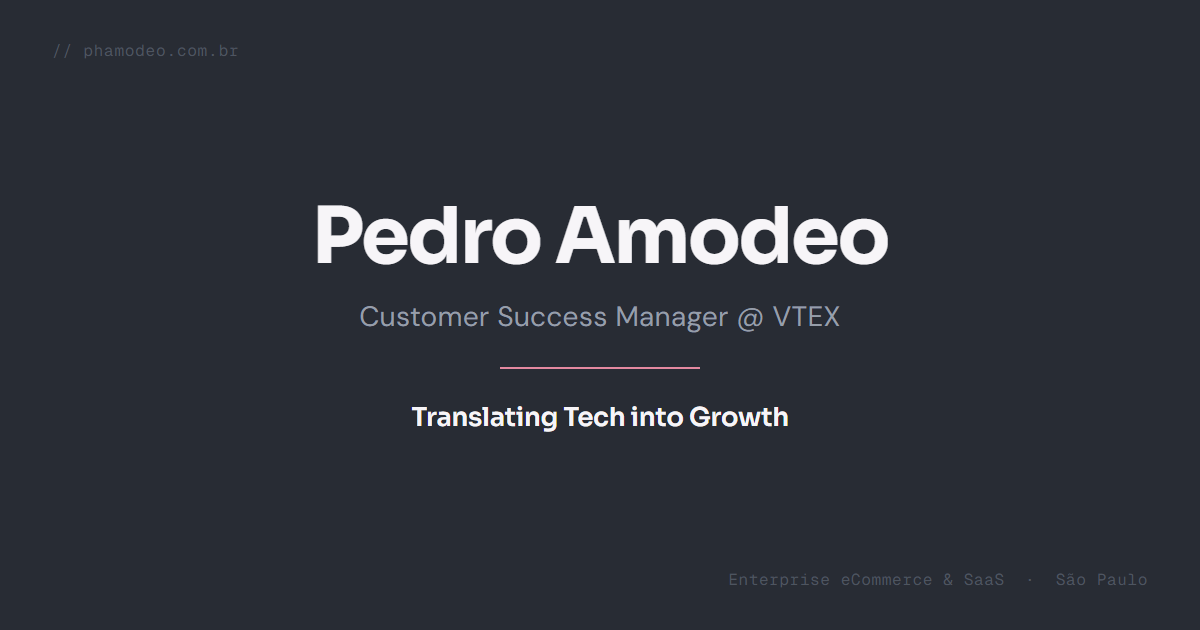
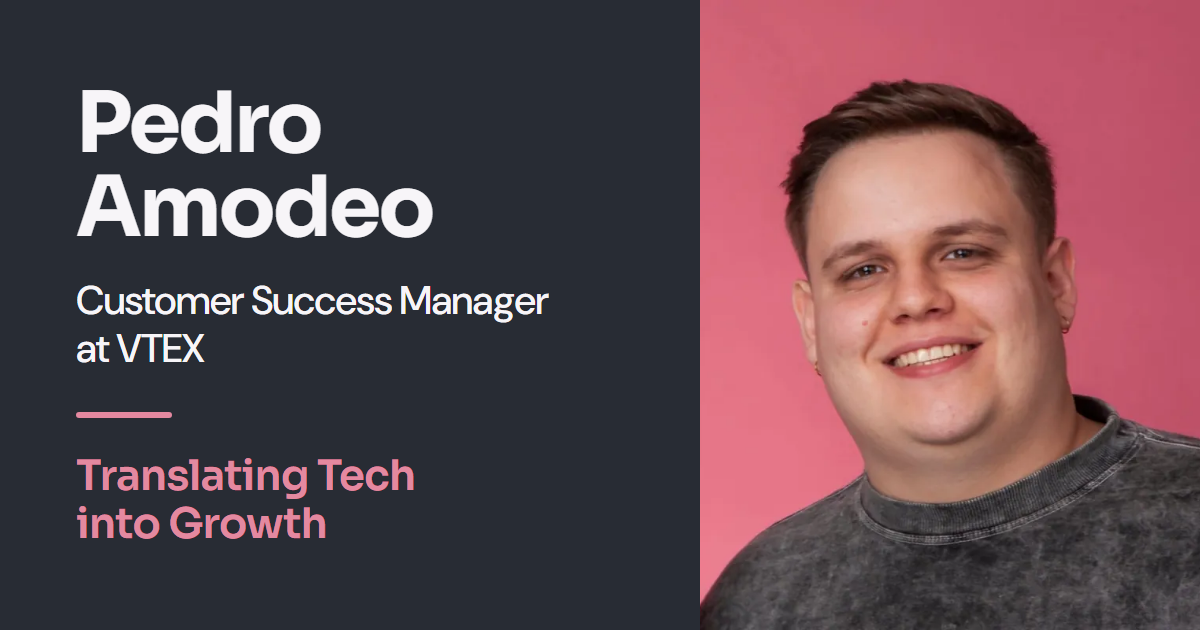
New link preview image with the headshot, sized for small previews
LinkedIn shows the card at ~550px on the web and ~350px in the app, so
every text line is 36px or larger at 1200x630 and only high-contrast
colors are used. The og:image URL gets ?v=2 so caches fetch the new file.

diff --git a/og-image.html b/og-image.html
@@ -4,15 +4,19 @@
   <meta charset="UTF-8">
   <meta name="viewport" content="width=1200">
   <title>OG Image, Pedro Amodeo</title>
+  <!--
+    Source for og-image.png (1200x630). Rendered with headless Chrome:
+    chrome --headless=new --window-size=1200,630 --screenshot=og-image.png og-image.html
+
+    Sized for small previews: LinkedIn shows this at ~550px wide on the web
+    and ~350px in the app (about 0.3x), so every text line is 36px or larger
+    and only high-contrast colors are used.
+  -->
   <link rel="preconnect" href="https://fonts.googleapis.com">
   <link rel="preconnect" href="https://fonts.gstatic.com" crossorigin>
-  <link href="https://fonts.googleapis.com/css2?family=DM+Sans:wght@400;500&family=Geist+Mono:wght@400&family=Sora:wght@600;700&display=swap" rel="stylesheet">
+  <link href="https://fonts.googleapis.com/css2?family=DM+Sans:opsz,wght@9..40,500&family=Sora:wght@600;700&display=swap" rel="stylesheet">
   <style>
-    *, *::before, *::after {
-      box-sizing: border-box;
-      margin: 0;
-      padding: 0;
-    }
+    *, *::before, *::after { box-sizing: border-box; margin: 0; padding: 0; }
 
     html, body {
       width: 1200px;
@@ -23,85 +27,69 @@
     }
 
     body {
-      position: relative;
-      display: flex;
-      align-items: center;
-      justify-content: center;
+      display: grid;
+      grid-template-columns: 1fr 500px;
     }
 
-    .corner-tl {
-      position: absolute;
-      top: 40px;
-      left: 52px;
-      font-family: 'Geist Mono', monospace;
-      font-size: 16px;
-      color: #4E5560;
-      letter-spacing: 0.05em;
-    }
-
-    .corner-br {
-      position: absolute;
-      bottom: 40px;
-      right: 52px;
-      font-family: 'Geist Mono', monospace;
-      font-size: 16px;
-      color: #4E5560;
-      letter-spacing: 0.04em;
-    }
-
-    .center {
+    .text {
       display: flex;
       flex-direction: column;
-      align-items: center;
-      text-align: center;
+      justify-content: center;
+      padding: 0 56px 0 76px;
     }
 
     .name {
       font-family: 'Sora', sans-serif;
-      font-size: 78px;
+      font-size: 84px;
       font-weight: 700;
       color: #F7F5F8;
-      letter-spacing: -0.03em;
-      line-height: 1.05;
-      margin-bottom: 20px;
+      letter-spacing: -0.035em;
+      line-height: 1;
     }
 
-    .title {
+    .role {
+      margin-top: 26px;
       font-family: 'DM Sans', sans-serif;
-      font-size: 28px;
-      font-weight: 400;
-      color: #969EAA;
-      letter-spacing: 0.01em;
+      font-size: 40px;
+      font-weight: 500;
+      color: #F7F5F8;
+      letter-spacing: -0.01em;
+      line-height: 1.2;
     }
 
     .divider {
-      width: 200px;
-      height: 2px;
+      width: 96px;
+      height: 6px;
+      border-radius: 3px;
       background: #E489A0;
-      margin: 32px 0;
+      margin: 40px 0 34px;
     }
 
     .tagline {
       font-family: 'Sora', sans-serif;
-      font-size: 26px;
+      font-size: 42px;
       font-weight: 600;
-      color: #F7F5F8;
-      letter-spacing: -0.01em;
+      color: #E489A0;
+      letter-spacing: -0.02em;
+      line-height: 1.15;
+    }
+
+    .photo {
+      width: 500px;
+      height: 630px;
+      object-fit: cover;
+      object-position: 50% 35%;
+      display: block;
     }
   </style>
 </head>
 <body>
-
-  <span class="corner-tl">// phamodeo.com.br</span>
-
-  <div class="center">
+  <div class="text">
     <h1 class="name">Pedro Amodeo</h1>
-    <p class="title">Customer Success Manager @ VTEX</p>
+    <p class="role">Customer Success Manager<br>at VTEX</p>
     <div class="divider"></div>
-    <p class="tagline">Translating Tech into Growth</p>
+    <p class="tagline">Translating Tech<br>into Growth</p>
   </div>
-
-  <span class="corner-br">Enterprise eCommerce &amp; SaaS &nbsp;·&nbsp; São Paulo</span>
-
+  <img class="photo" src="img/pedro-amodeo.webp" alt="">
 </body>
 </html>

diff --git a/index.html b/index.html
@@ -15,7 +15,7 @@
   <meta property="og:description" content="Customer Success Manager at VTEX, where technical relationships turn into business growth.">
   <meta property="og:type" content="website">
   <meta property="og:url" content="https://phamodeo.com.br/">
-  <meta property="og:image" content="https://phamodeo.com.br/og-image.png">
+  <meta property="og:image" content="https://phamodeo.com.br/og-image.png?v=2">
   <meta property="og:image:width" content="1200">
   <meta property="og:image:height" content="630">
   <meta property="og:image:alt" content="Pedro Amodeo, Customer Success Manager at VTEX. Translating Tech into Growth.">
@@ -24,7 +24,7 @@
   <meta name="twitter:card" content="summary_large_image">
   <meta name="twitter:title" content="Pedro Amodeo | Translating Tech into Growth">
   <meta name="twitter:description" content="Customer Success Manager at VTEX, where technical relationships turn into business growth.">
-  <meta name="twitter:image" content="https://phamodeo.com.br/og-image.png">
+  <meta name="twitter:image" content="https://phamodeo.com.br/og-image.png?v=2">
 
   <script type="application/ld+json">
   {
